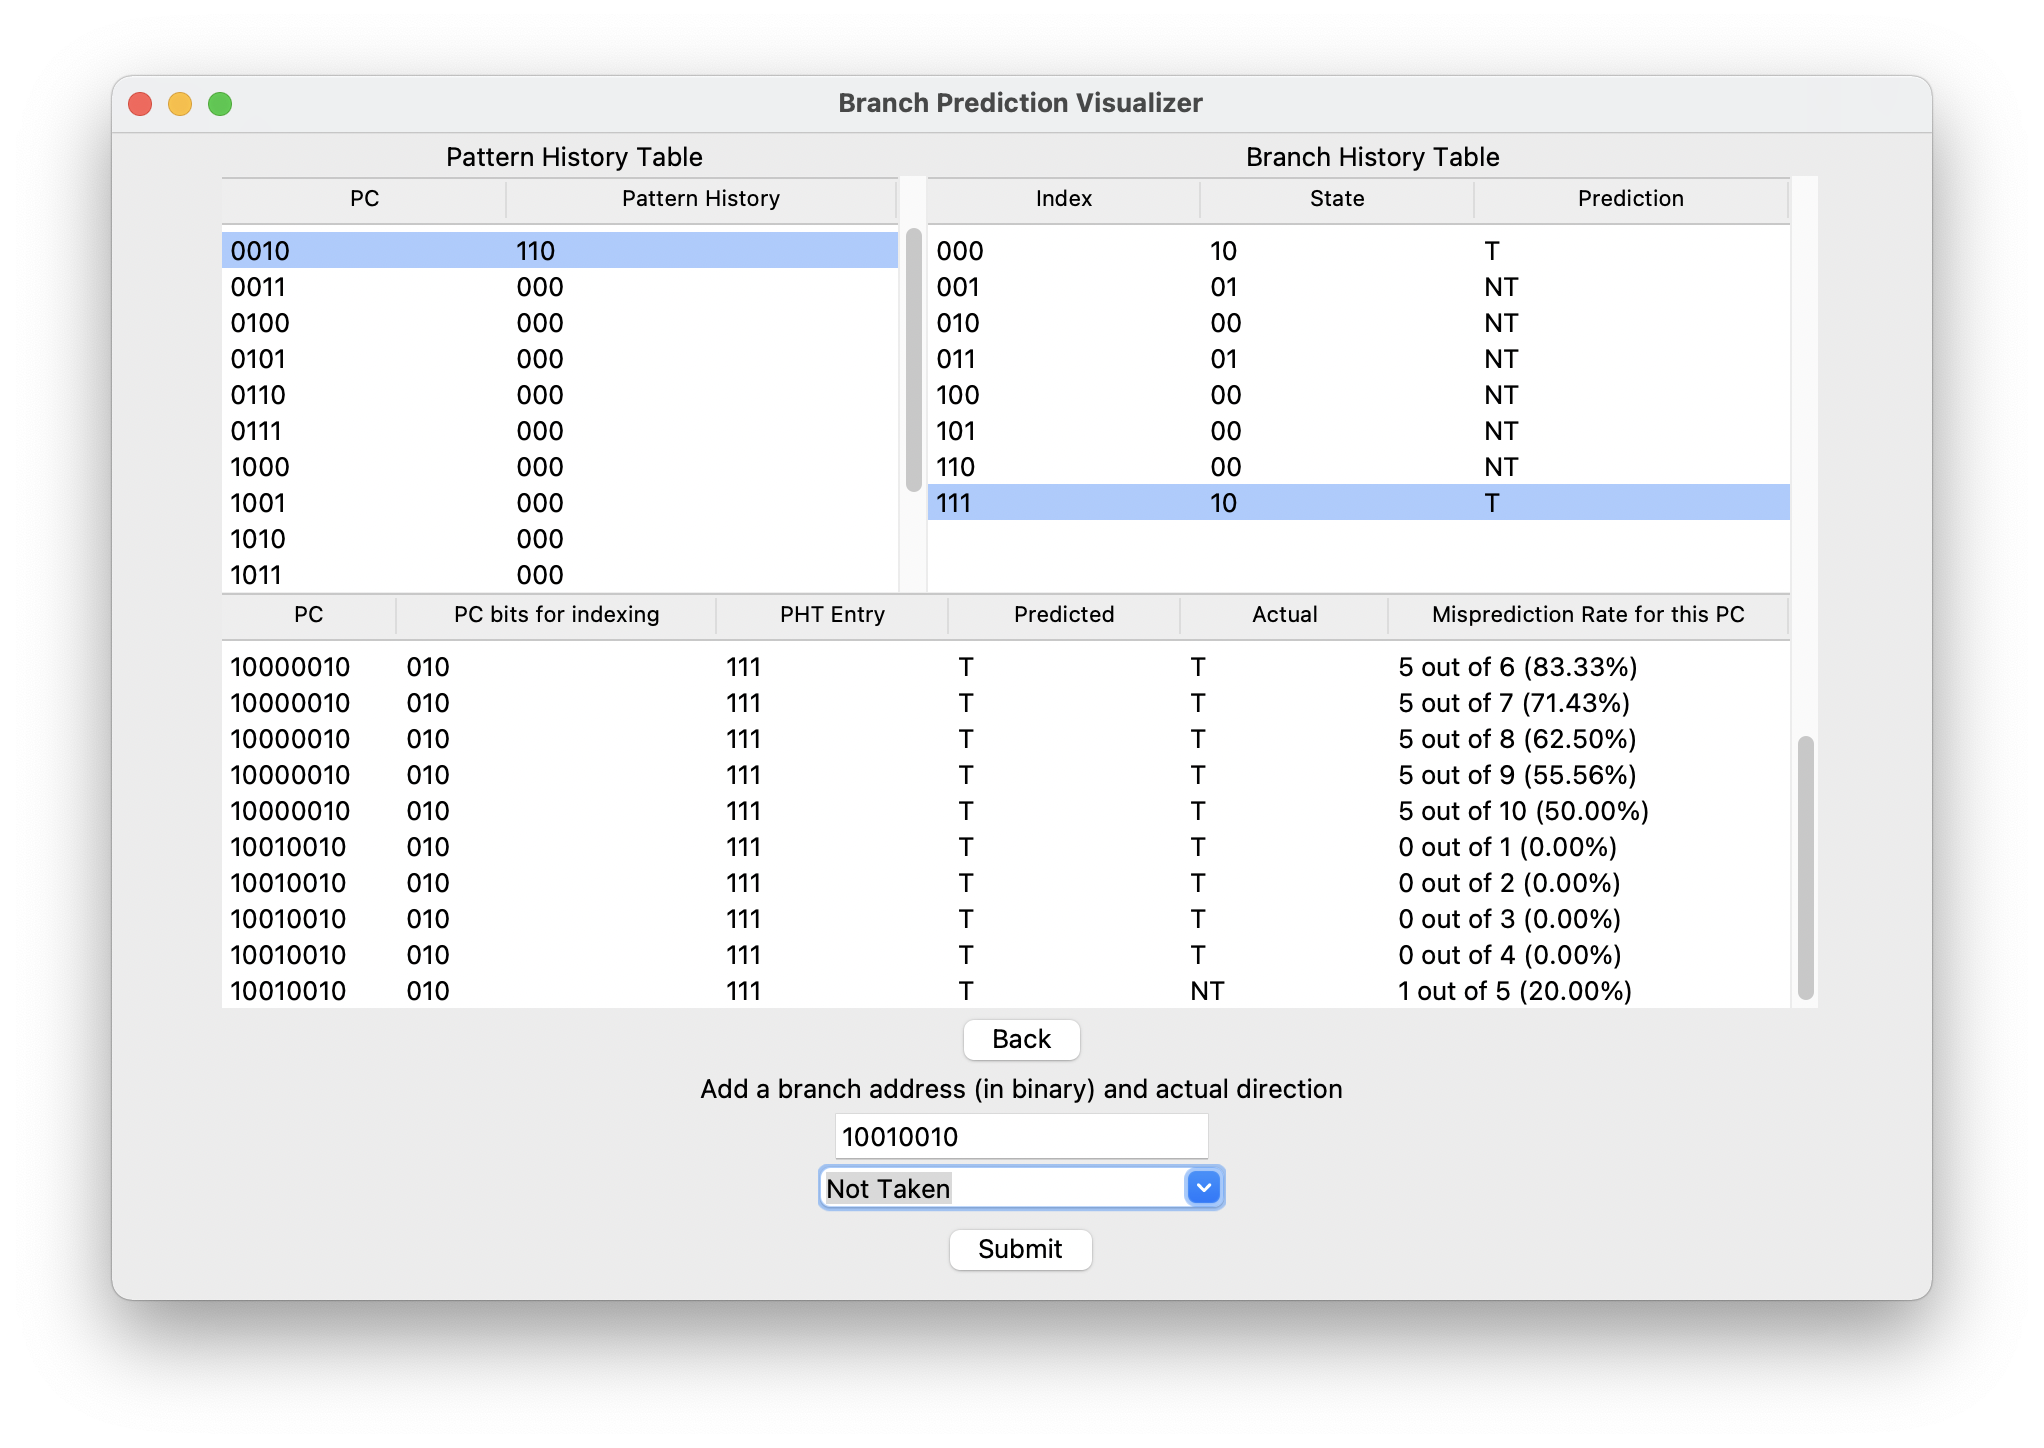
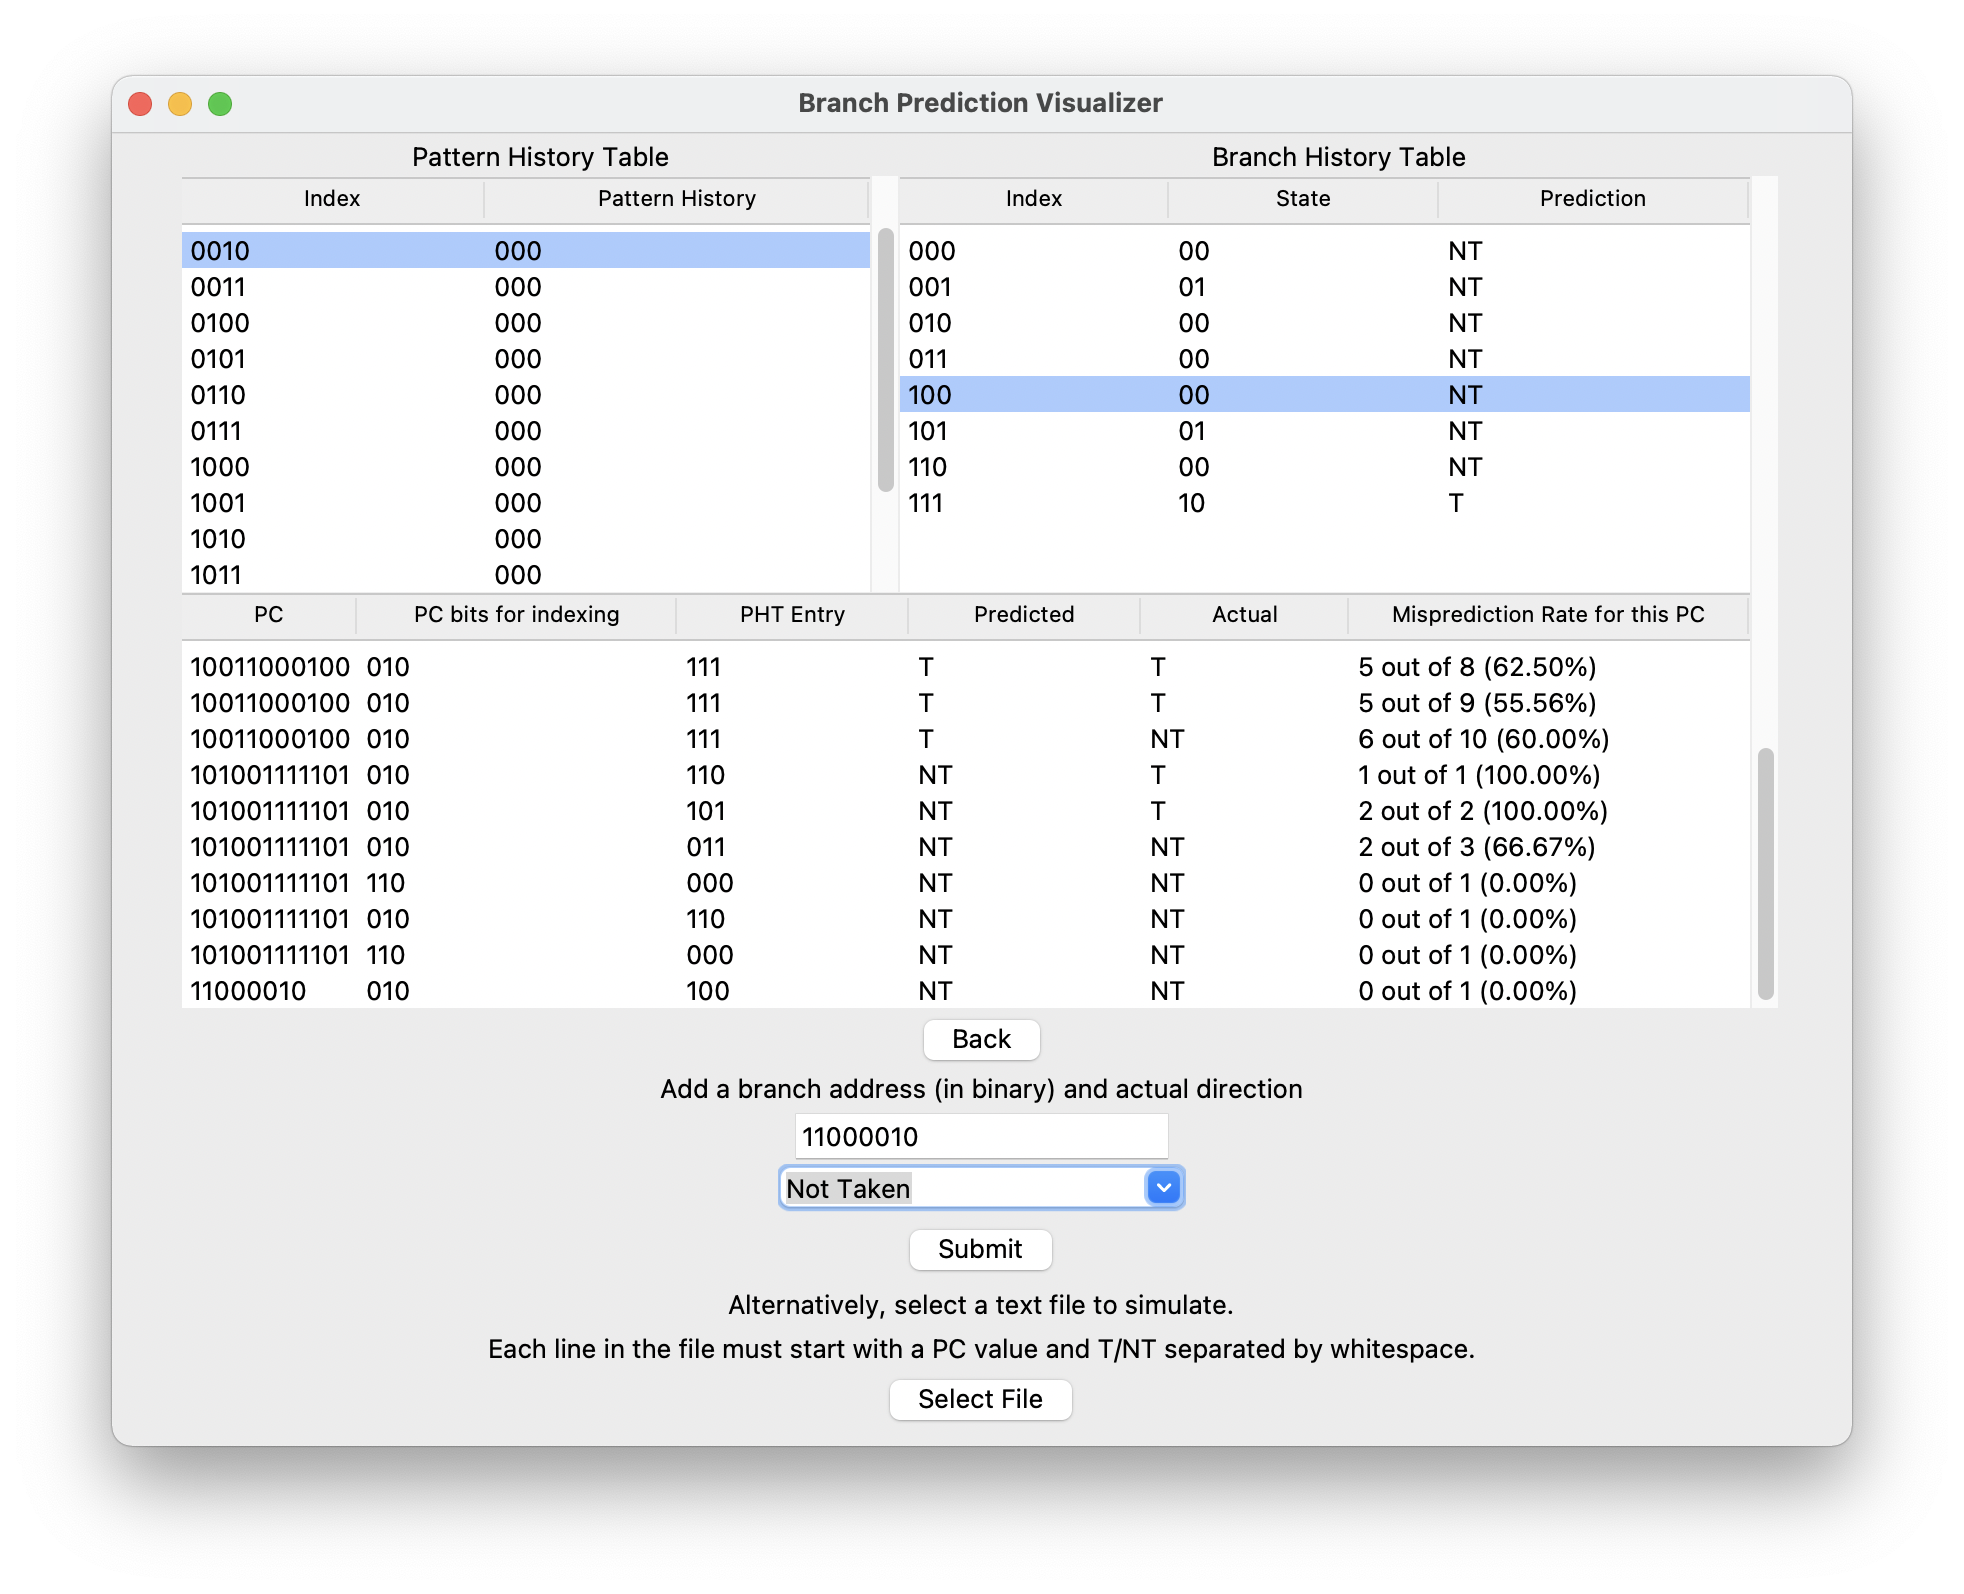
Allow file upload

diff --git a/main.py b/main.py
@@ -1,6 +1,6 @@
 import _tkinter
 import tkinter as tk
-from tkinter import ttk
+from tkinter import ttk, filedialog, messagebox
 from predictor_components import nBitPredictor, nBitAgreePredictor
 from predictor_widgets import *
 from gui_widgets import ImageWidget, ScrollableFrameY
@@ -134,6 +134,27 @@ class Application(tk.Frame):
 
         submit = tk.Button(self.inner, text = "Submit", command = update)
         submit.pack(padx = 3, pady = 3)
+
+        def simulate_from_file(event=None):
+            filename = filedialog.askopenfilename()
+            if not filename.endswith('.txt'):
+                messagebox.showerror('Error', 'File must be .txt file')
+                return
+            with open(filename, 'r') as f:
+                lines = f.readlines()
+                for line in lines:
+                    try:
+                        tokens = line.split()
+                        direction = 1 if tokens[1] == "T" else 0
+                        bht.update(int(tokens[0]), direction)
+                    except:
+                        messagebox.showerror('Error', 'File lines are not formatted properly. Each line must have PC and T/NT separated by whitespace.')
+                        return
+        tk.Label(self.inner, text = "Alternatively, select a text file to simulate.").pack()
+        tk.Label(self.inner, text = "Each line in the file must start with a PC value and T/NT separated by whitespace.").pack()
+
+        button = tk.Button(self.inner, text='Select File', command=simulate_from_file)
+        button.pack()
 
     def clear(self):
         for widget in self.inner.winfo_children():

diff --git a/README.md b/README.md
@@ -1,6 +1,6 @@
 # branch-prediction-visualization
 
-Visualize and compare different branch prediction methods using Python and Tkinter GUI.  
+Visualize and compare different branch prediction methods for a pipelined processor.
 
 Currently only shows branch direction predictions (taken or not taken), not branch target address predictions or branch instruction predictions (determining whether instruction is branch), since these can generally be done efficiently with a branch target buffer (BTB) and return address stack (RAS) for function returns.  
 
@@ -30,17 +30,22 @@ Ideas to (maybe) implement and more state-of-the-art prediction methods.
 - Multiple predictors
     - Meta predictor; predictor for predictors (e.g. Alpha 21264 Tournament Predictor)
     - Majority vote method (gskewed), predictor fusion, partial tagging, adder tree
-- More misprediction stats (e.g. input a # of stages to flush for each misprediction, and it'll tell you the slowdown rate compared to perfect prediction)
-- Sample T/NT patterns representing loop branches, dependent branches, etc. to show how different methods are better in certain cases.
 - Alloyed-history predictors: concatenate local and global history to use as index
 - Geometric history length predictors: TAGE, O-GEHL
 - n by n predictors: Multiple arrays of predictors, use PC to select index, then use GHR to select array.
 - YAGS
 - Detect loop branch and count iterations (Intel Pentium M)
+- Additional features
+    - More misprediction stats (e.g. input a # of stages to flush for each misprediction, and it'll tell you the slowdown rate compared to perfect prediction)
+    - Sample T/NT patterns representing loop branches, dependent branches, etc. to show how different methods are better in certain cases.
+    - custom n-m bits of PC for indexing. Currently, lowest bits are used by default.
+    - More diagram-like UI
 
 ## Usage and Dependencies
-Make sure Tkinter and pillow are installed, and open/run `main.py` with Python 3.X. Below is an example simulation of branch instructions using the Local History prediction method, with a 16-entry local pattern history table and 8-entry branch history table.
-![alt text](assets/local_history_example.png)
+Make sure Tkinter and pillow are installed, and open/run `main.py` with Python 3.X.   
+Below is an example simulation of branch instructions using the Local History prediction method, with a 16-entry local pattern history table and 8-entry branch history table.
+![alt text](assets/local_history_example.png)  
+An `example.txt` file is provided for an example file format for simulating branch instructions from a file upload.
 
 ## References
 - Agree predictors:  
